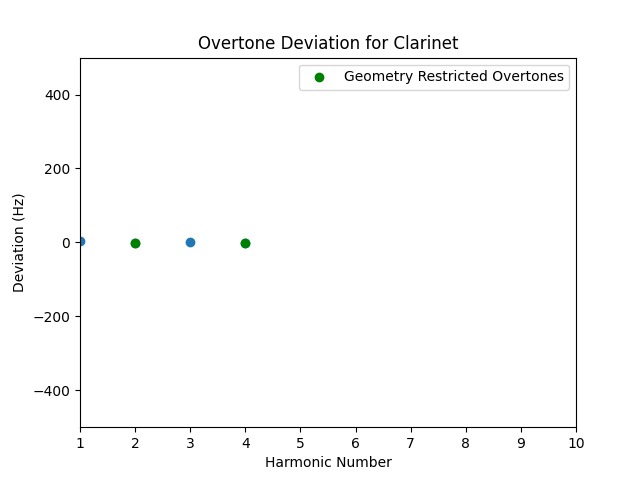
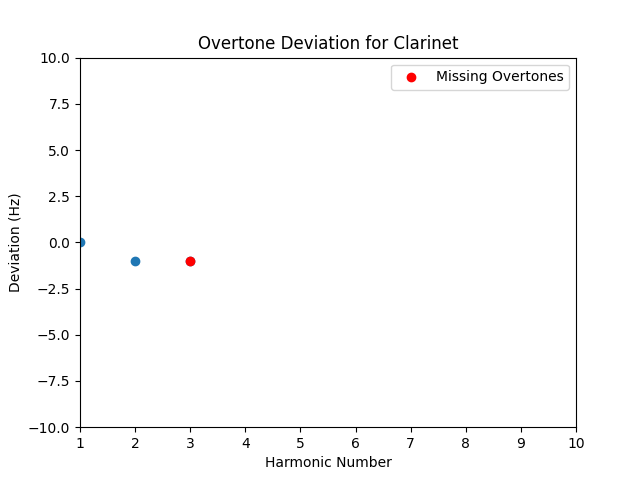
Fixed nFFT issues, added slider to static

diff --git a/static/index.html b/static/index.html
@@ -44,6 +44,22 @@
         </div>
        
         <h2>Generating Series Approximations</h2>
+        <h3 for="fftSlider">FFT Size (Time ↔ Frequency Resolution)</label>
+        <br>
+        <input 
+            type="range" 
+            id="fftSlider"
+            min="9"
+            max="15"
+            step="1"
+            value="11"
+            style="width: 500px; height: 40px;"
+        >
+        <span id="fftValue">2048</span>
+        <br>
+        <span id="warning" style = "color: red;"></span>
+        <br>
+
         <button onClick = "generateSeries()" >Calculate p(t)</button>
         <button onClick = "generateDeviation()" >Calculate Deviation</button>
         <br>
@@ -73,6 +89,21 @@
             const playHeads = {}
             const specs = {}
             const playHeadCxts = {}
+
+            const slider = document.getElementById("fftSlider");
+            const valueDisplay = document.getElementById("fftValue");
+            nFFT = document.getElementById("fftSlider").value;
+
+            slider.oninput = function() {
+                valueDisplay.textContent = Math.pow(2, this.value);
+                nFFT = Math.pow(2, this.value);
+                if (this.value > 13) {
+                    document.getElementById("warning").textContent = "Warning: High FFT sizes may cause performance issues.";
+                } else {
+                    document.getElementById("warning").textContent = "";
+                }
+            };
+
             for (let i = 0; i < 4; i++) {
                 const instrument = instruments[i];
                 const playHead = document.getElementById(instrument + "Canvas");
@@ -126,7 +157,7 @@
 
         async function generateSeries() {
             time = audio.currentTime;
-            const response = await axios.get(`/series?time=${time}`);
+            const response = await axios.get(`/series?time=${time}&nFFT=${nFFT}`);
 
 
             document.getElementById('violinSeries').innerHTML = "";
@@ -154,7 +185,7 @@
         }
 
         async function generateDeviation() {
-            const response = await axios.get(`/deviation?time=${time}`);
+            const response = await axios.get(`/deviation?time=${time}&nFFT=${nFFT}`);
 
 
             document.getElementById('violinDeviationPlot').innerHTML = "";

diff --git a/py.py b/py.py
@@ -65,17 +65,17 @@ def get_spectrograms():
     return specs
 
 @app.get("/series")
-def seriesCalculation(time: float):
+def seriesCalculation(time: float, nFFT: int):
     series = {}
     for name, path in instruments.items():
         if name != "piano":
-            series[name] = generateSeries(name, path, time)
+            series[name] = generateSeries(name, path, time, nFFT)
     return series
 
-def generateSeries(instrument_name, file_path, time):
+def generateSeries(instrument_name, file_path, time, nFFT):
     y= audioCache[instrument_name]
     sr= audioSr[instrument_name]
-    FT = librosa.stft(y, n_fft=2048)  # updated n_fft
+    FT = librosa.stft(y, n_fft=nFFT, hop_length=512)  # updated n_fft
     mag = np.abs(FT)   
     hop = 512
     frame = int(time * sr / hop)
@@ -83,9 +83,9 @@ def generateSeries(instrument_name, file_path, time):
     print("Frame:", frame)
     ampslice = mag[:, frame]
     
-    peaks, _ = find_peaks(ampslice, height=np.max(ampslice)*0.075)
+    peaks, _ = find_peaks(ampslice, height=np.max(ampslice)*0.052)
     
-    frequencies = librosa.fft_frequencies(sr=sr, n_fft=2048)  # updated n_fft
+    frequencies = librosa.fft_frequencies(sr=sr, n_fft=nFFT)  # updated n_fft
     peakfreqs = frequencies[peaks]
 
     if len(peakfreqs) == 0:
@@ -136,26 +136,26 @@ def generateSeries(instrument_name, file_path, time):
     return {"equation": equation, "file": f"{instrument_name.capitalize()}Series.png"}
 
 @app.get("/deviation")
-def devCalculation(time: float):
+def devCalculation(time: float, nFFT: int):
     deviations = {}
     for name, path in instruments.items():
         if name != "piano":
-            deviations[name] = generateDev(name, path, time)
+            deviations[name] = generateDev(name, path, time, nFFT)
     return deviations
 
-def generateDev(instrument_name, file_path, time):
+def generateDev(instrument_name, file_path, time, nFFT):
     y= audioCache[instrument_name]
     sr= audioSr[instrument_name]
-    FT = librosa.stft(y, n_fft=2048)  # updated n_fft
+    FT = librosa.stft(y, n_fft=nFFT, hop_length=512)  # updated n_fft
     mag = np.abs(FT)   
     hop = 512
     frame = int(time * sr / hop)
     frame = min(frame, mag.shape[1] - 1)
     ampslice = mag[:, frame]
     
-    peaks, _ = find_peaks(ampslice, height=np.max(ampslice)*0.075)
+    peaks, _ = find_peaks(ampslice, height=np.max(ampslice)*0.052)
     
-    frequencies = librosa.fft_frequencies(sr=sr, n_fft=2048)  # updated n_fft
+    frequencies = librosa.fft_frequencies(sr=sr, n_fft=nFFT)  # updated n_fft
     peakfreqs = frequencies[peaks]
     Amps = ampslice[peaks]
     overtones = []
@@ -220,7 +220,7 @@ def generateDev(instrument_name, file_path, time):
     plt.xlabel("Harmonic Number")
     plt.ylabel("Deviation (Hz)")
     plt.xlim(1, 10) 
-    plt.ylim(-100, 100) 
+    plt.ylim(-10, 10) 
     plt.legend()
     save_path= f"static/{instrument_name.capitalize()}Deviation.png"
     plt.savefig(save_path)
